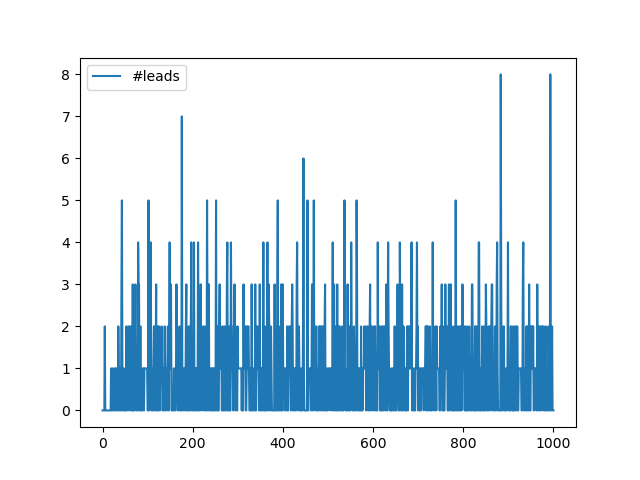
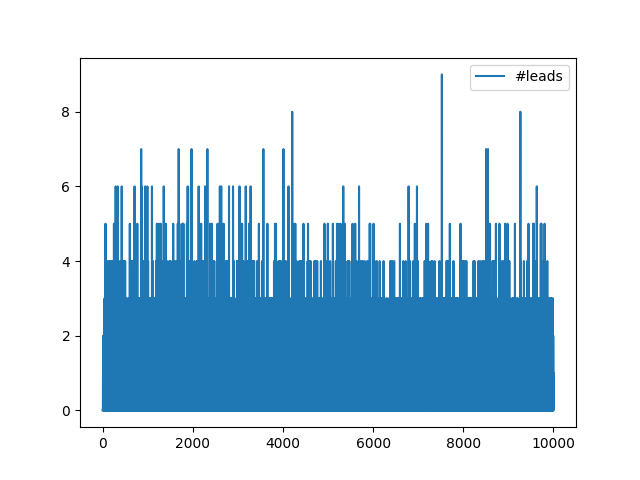
[research/lotterysim] bug fixed with cascade control, round primary feedback precision to .2f

diff --git a/script/research/lotterysim/core/lottery.py b/script/research/lotterysim/core/lottery.py
@@ -42,12 +42,12 @@ class DarkfiTable:
             f = self.secondary_pid.pid_clipped(float(feedback), debug)
 
             if count%EPOCH_LENGTH == 0:
-                acc = self.secondary_pid.acc_percentage()
+                acc = self.secondary_pid.acc()
                 #staked_ratio = self.avg_stake_ratio()
                 reward = self.primary_pid.pid_clipped(acc, debug)
                 self.rewards += [reward]
 
-            rt_range.set_description('issuance {} DRK'.format(sum(self.rewards)))
+            rt_range.set_description('issuance {} DRK, acc: {}'.format(round(sum(self.rewards),2), round(acc,2)))
             #note! thread overhead is 10X slower than sequential node execution!
             for i in range(len(self.darkies)):
                 self.darkies[i].set_sigma_feedback(self.Sigma, feedback, f, count, hp)
@@ -95,7 +95,7 @@ class DarkfiTable:
         avg_apy = self.avg_apy()
         avg_apr = self.avg_apr()
         #print('apy: {}, staked_ratio: {}'.format(avg_apy, stake_ratio))
-        return self.secondary_pid.acc(), avg_apy, avg_reward, stake_ratio, avg_apr
+        return self.secondary_pid.acc_percentage(), avg_apy, avg_reward, stake_ratio, avg_apr
 
     def avg_apy(self):
         return Num(sum([darkie.apy_scaled_to_runningtime(self.rewards) for darkie in self.darkies])/len(self.darkies))

diff --git a/script/research/lotterysim/discrete_instance.py b/script/research/lotterysim/discrete_instance.py
@@ -27,7 +27,8 @@ if __name__ == "__main__":
     for darkie in darkies:
         effective_airdrop+=darkie.stake
     print("network airdrop: {}, staked token: {}/{}% on {} nodes".format(airdrop, effective_airdrop, effective_airdrop/airdrop*100, len(darkies)))
-    dt = DarkfiTable(airdrop, RUNNING_TIME, CONTROLLER_TYPE_DISCRETE, kp=-0.010399999999938556, ki=-0.0365999996461878, kd=0.03840000000000491,  r_kp=-2.53, r_ki=29.5, r_kd=53.77)
+    #dt = DarkfiTable(airdrop, RUNNING_TIME, CONTROLLER_TYPE_DISCRETE, kp=-0.010399999999938556, ki=-0.0365999996461878, kd=0.03840000000000491,  r_kp=-2.53, r_ki=29.5, r_kd=53.77)
+    dt = DarkfiTable(airdrop, RUNNING_TIME, CONTROLLER_TYPE_DISCRETE, kp=-0.010399999999938556, ki=-0.0365999996461878, kd=0.03840000000000491,  r_kp=-0.63, r_ki=3.35, r_kd=-1.11)
     for darkie in darkies:
         dt.add_darkie(darkie)
     acc, avg_apy, avg_reward, stake_ratio, avg_apr = dt.background(rand_running_time=False)

diff --git a/script/research/lotterysim/pid/pid_base.py b/script/research/lotterysim/pid/pid_base.py
@@ -121,8 +121,9 @@ class BasePID:
         self.write_feedback('log' + os.sep + self.type+feedback_hist_file)
         self.write_fval('log'+ os.sep + self.type+output_hist_file)
 
-    def acc(self):
-        return sum(np.array(self.feedback_hist)==self.target)/float(len(self.feedback_hist))
+    def acc(self, window=ACC_WINDOW):
+        windowed_hist = [round(hist, 2) for hist in self.feedback_hist][-1*window:]
+        return sum(np.array(windowed_hist)==self.target)/float(len(windowed_hist))
 
     def acc_percentage(self):
-        return self.acc() * 100
+        return self.acc(window=0) * 100

diff --git a/script/research/lotterysim/primary_discrete_auto_crawler.py b/script/research/lotterysim/primary_discrete_auto_crawler.py
@@ -8,17 +8,17 @@ from core.strategy import random_strategy
 
 AVG_LEN = 10
 
-KP_STEP=10
-KP_SEARCH=0.47
+KP_STEP=5
+KP_SEARCH=0.92
 
-KI_STEP=10
-KI_SEARCH=5.3
+KI_STEP=5
+KI_SEARCH=1.6
 
-KD_STEP=10
-KD_SEARCH=70.77
+KD_STEP=5
+KD_SEARCH=0.1
 
-RUNNING_TIME=1000
-NODES = 10
+RUNNING_TIME=5000
+NODES = 100
 
 SHIFTING = 0.05
 

diff --git a/script/research/lotterysim/core/constants.py b/script/research/lotterysim/core/constants.py
@@ -33,3 +33,5 @@ F_MAX_HP = Num(F_MAX)
 EPSILON_HP = Num(EPSILON)
 REWARD_MIN_HP = Num(REWARD_MIN)
 REWARD_MAX_HP = Num(REWARD_MAX)
+
+ACC_WINDOW = 100
